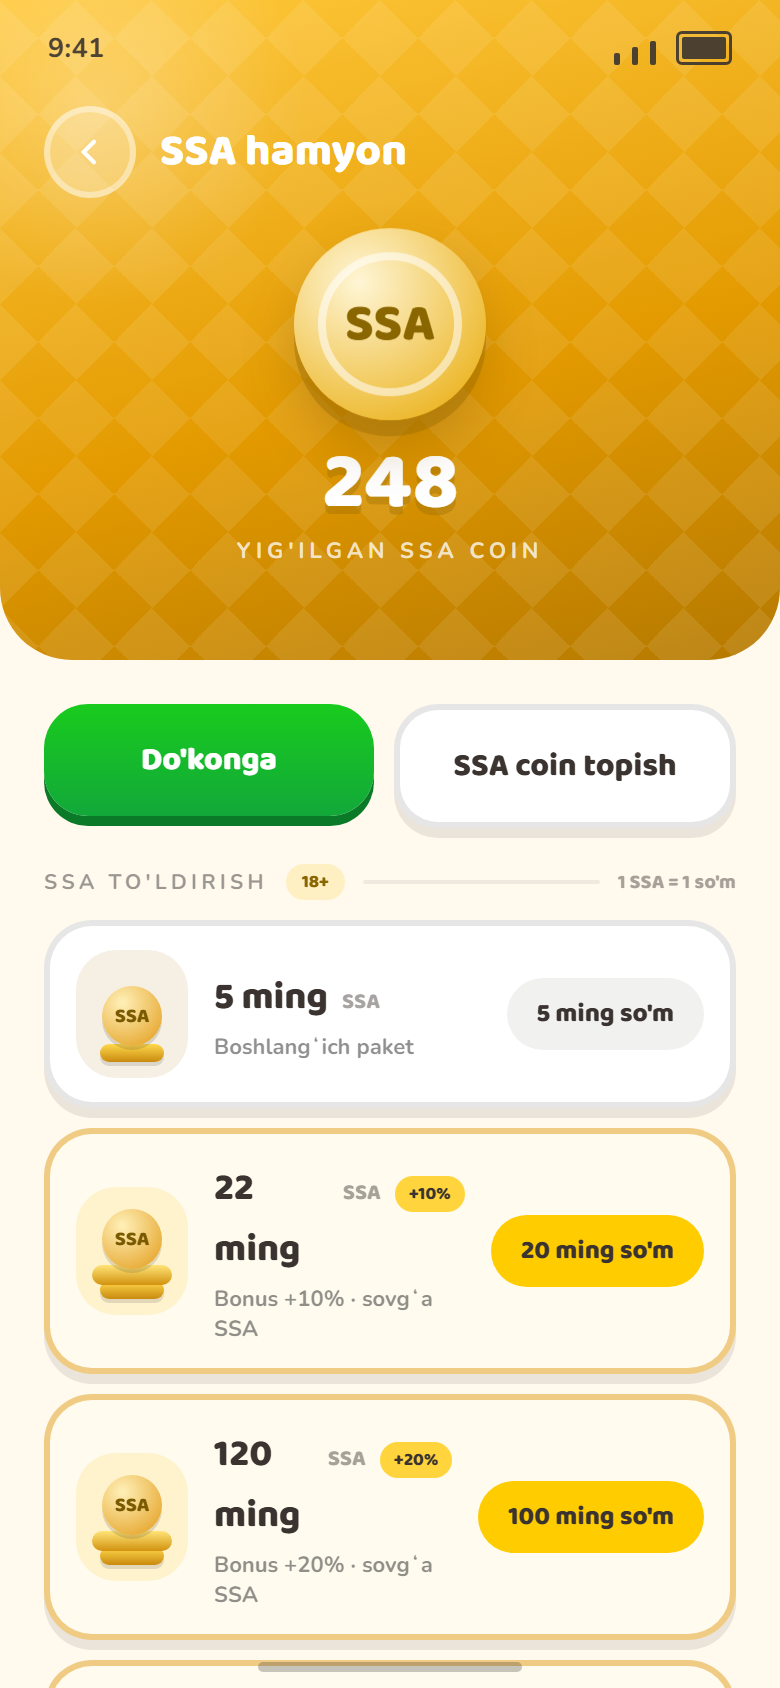
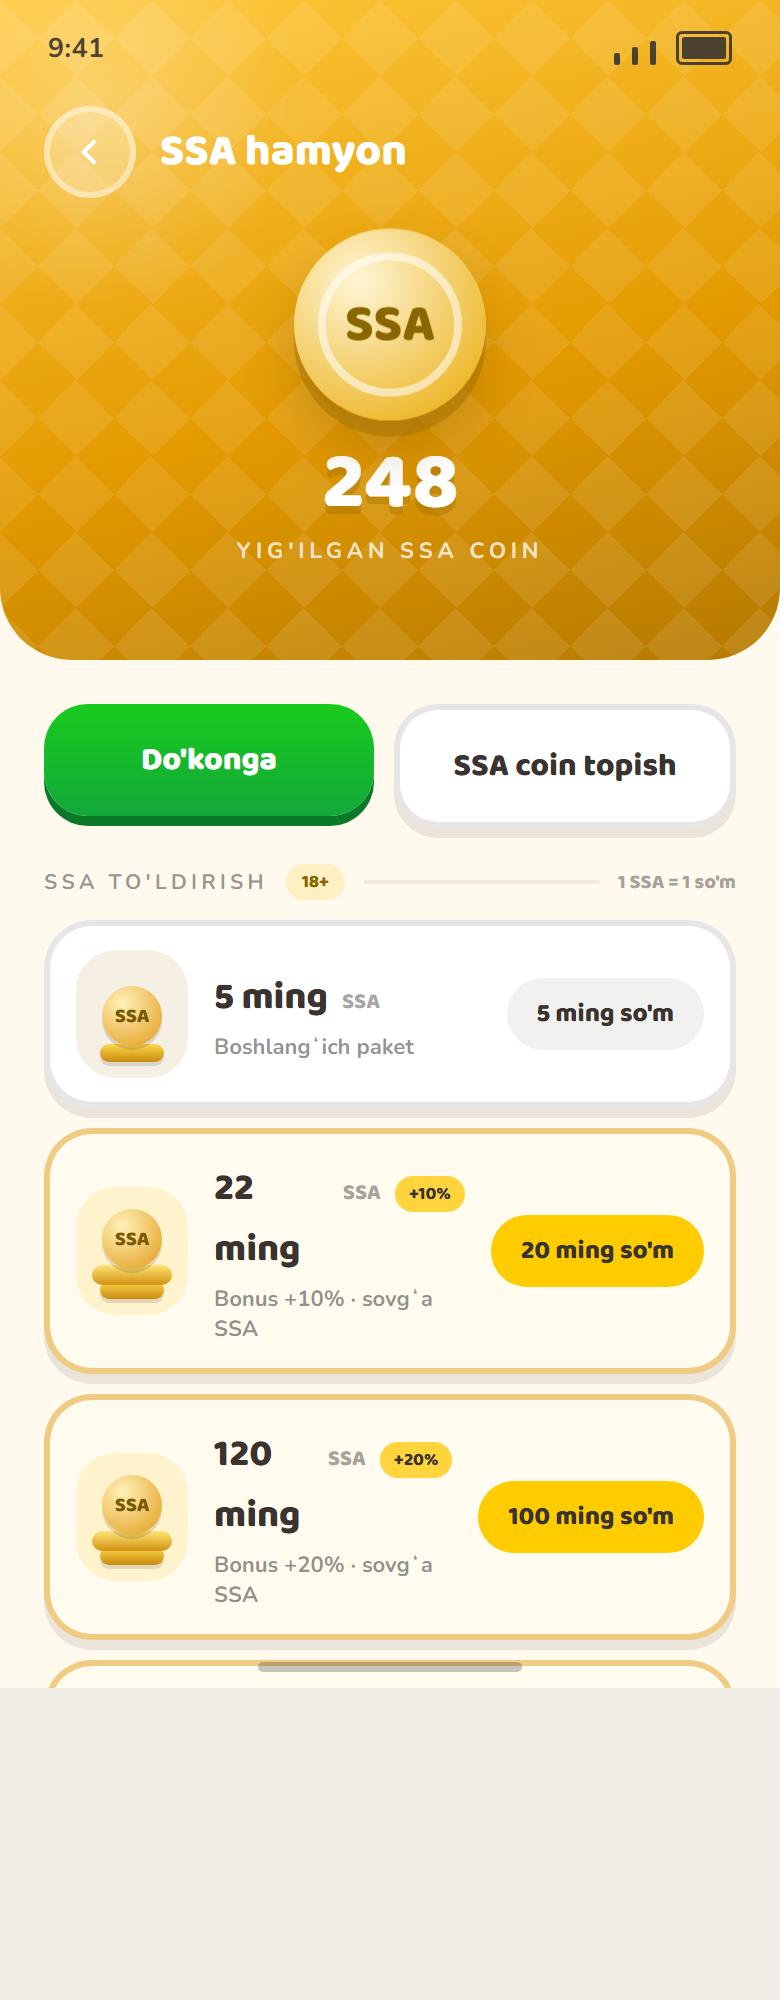
Hamyon (coin) ekraniga scroll qo'shildi + Do'konga zonasi

Changed region(s): [[0.0, 0.0, 1.0, 1.0], [0.8615, 0.0, 0.9231, 0.0616]]

diff --git a/Assets/Scripts/MomiqController.cs b/Assets/Scripts/MomiqController.cs
@@ -999,9 +999,14 @@ public class MomiqController : MonoBehaviour
 
     void BuildHamyon()
     {
-        ImgBg("hamyon");
+        var content = BeginScroll(0);
+        var rt = Node("bg", content, 0, 0, SW, 1000);
+        rt.gameObject.AddComponent<Image>().sprite = UiSprite("hamyon");
+        Zone(22, 400, 170, 56, () => Show("dokon"));
+        EndScroll(1000);
         Zone(10, 42, 56, 52, () => Show("home"));
     }
+
 
 
     void BuildStiker()
